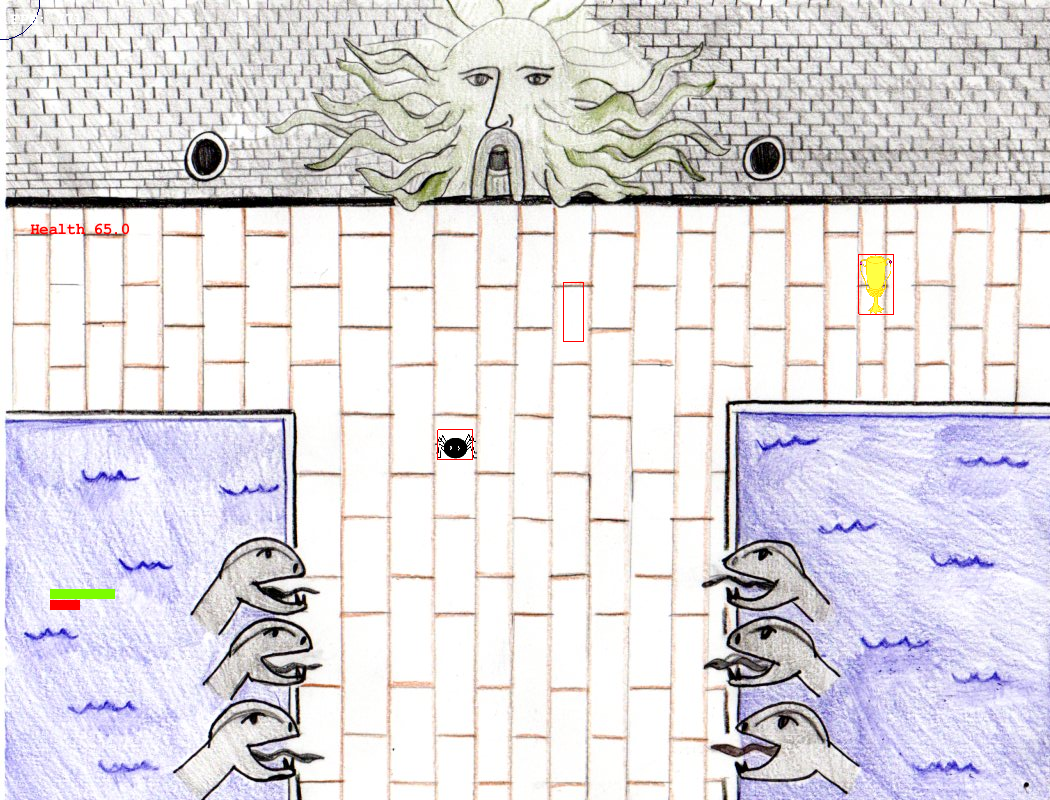
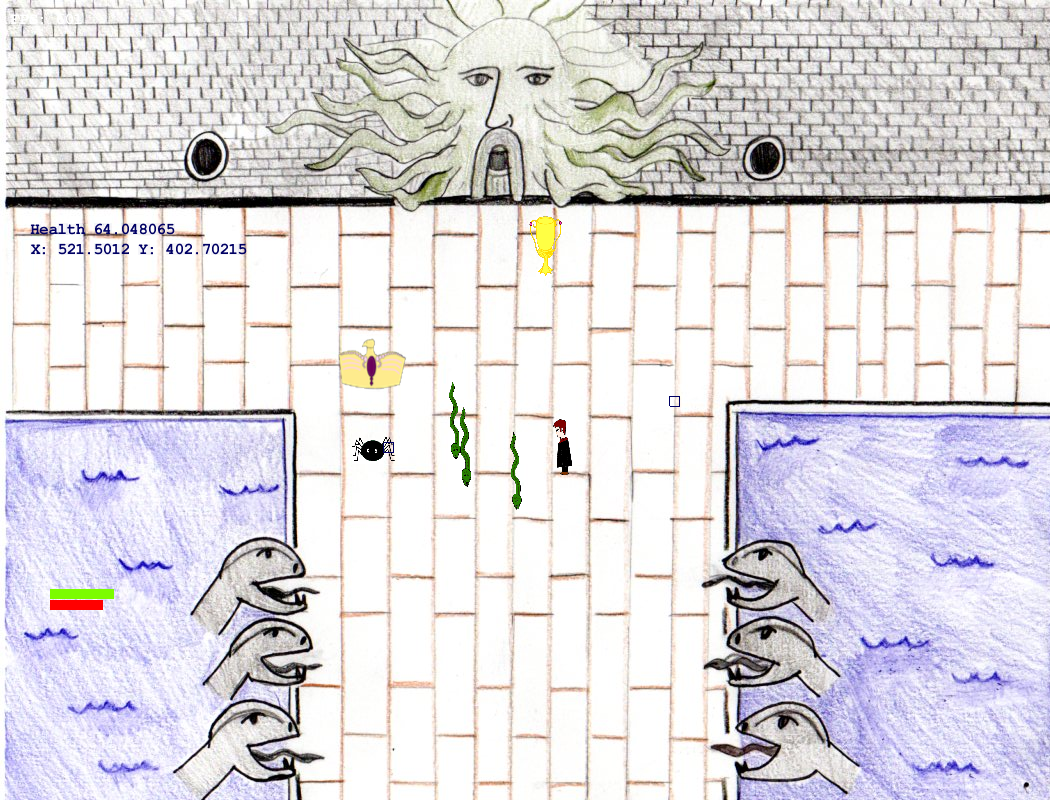
Worked on SpiderMove and added bullet image

diff --git a/src/finalHPGame/Spell/rangepower/bullet/Bullet.java b/src/finalHPGame/Spell/rangepower/bullet/Bullet.java
@@ -1,6 +1,8 @@
 package finalHPGame.Spell.rangepower.bullet;
 
 import org.newdawn.slick.Graphics;
+import org.newdawn.slick.Image;
+import org.newdawn.slick.SlickException;
 import org.newdawn.slick.geom.Rectangle;
 
 import finalHPGame.Location.Location;
@@ -13,16 +15,40 @@ import finalHPGame.Spell.rangepower.bullet.movable.*;
 		private float speed;
 		private int timer;
 		private Rectangle personal;
+		
+		private Image bullet;
+		private float dx;
+		private float dy;
 
 		public Bullet(int direction, Location UserLocation, float speed){
-			if(direction==12) bulletmove = new BulletMoveUp();
-			else if(direction==3) bulletmove = new BulletMoveRight();
-			else if(direction==6) bulletmove = new BulletMoveDown();
-			else if(direction==9) bulletmove = new BulletMoveLeft();
+			dx = 0;
+			dy = 0;
+			if(direction==12){
+				bulletmove = new BulletMoveUp();
+				dx = -12;
+			}
+			else if(direction==3){
+				bulletmove = new BulletMoveRight();
+				dx = -12;
+			}
+			else if(direction==6){
+				bulletmove = new BulletMoveDown();
+				dx=-12;
+			}
+			else if(direction==9){
+				bulletmove = new BulletMoveLeft();
+				dx = -13;
+			}
+			
 			loc = UserLocation.getCopyOfLocation();
 			timer = 0;
 			personal = new Rectangle(loc.getX()+40,loc.getY()+40,10,10);
 			this.speed = speed;
+			try {
+				bullet = new Image("res/Avad_bullet.png");
+			} catch (SlickException e) {
+				e.printStackTrace();
+			}
 		}
 
 		public boolean update(int delta){
@@ -30,7 +56,7 @@ import finalHPGame.Spell.rangepower.bullet.movable.*;
 			if(timer >= 10)
 			{	
 				bulletmove.moveBullet(loc, speed);
-				personal.setX(loc.getX()+40);
+				personal.setX(loc.getX()+45);
 				personal.setY(loc.getY()+40);
 				timer=0;
 			}
@@ -48,7 +74,7 @@ import finalHPGame.Spell.rangepower.bullet.movable.*;
 		}
 		
 		public void draw(Graphics g){
-			g.draw(personal);
+			g.drawImage(bullet,loc.getX()+dx,loc.getY()+dy);
 		}
 		public Rectangle getPersonal(){
 			return personal;

diff --git a/src/finalHPGame/CharList.java b/src/finalHPGame/CharList.java
@@ -8,6 +8,9 @@ import finalHPGame.Characters.*;
 import finalHPGame.Characters.Character;
 import finalHPGame.Data.characters.*;
 import finalHPGame.Data.horcrux.*;
+import finalHPGame.Movable.SuperEnemyMove;
+import finalHPGame.Spell.Spell;
+import finalHPGame.Spell.nonrange.CirclePower;
 
 /**Contains the Characters in the game*/
 public class CharList {
@@ -28,8 +31,10 @@ public class CharList {
 			  in this level it is Harry*/
 
 			characters.add(new Magician(new HarryData(300,140,level),this));
-			characters.add(new Enemy(new SpiderData(300,400,1,this)));
-			horcruxes.add(new Enemy(new CupData(200,200,1)));
+			characters.add(new Enemy(new SpiderData(300,400,level,this)));
+			horcruxes.add(new Enemy(new CupData(200,200,level)));
+			horcruxes.add(new Enemy(new DiademData(299,303,level)));
+			
 
 			for(int x = 1; x<10; x++){
 				// to make sure the objects don't 
@@ -42,6 +47,8 @@ public class CharList {
 		else if(level==2){
 			characters.add(new Magician(new RonData(140,300,level), this));
 			characters.add(new Enemy(new DementorData(300,400,level)));
+			characters.add(new Enemy(new DementorData(200,230,level)));
+			characters.add(new Enemy(new DementorData(20,259,level)));
 		}
 		else if(level==3){
 			characters.add(new Magician(new HarryData(140,300,level),this));
@@ -159,13 +166,24 @@ public class CharList {
 			}
 		}
 	}
-	
-	public void drawAllBullet(Graphics g){
+
+	public void drawPowers(Graphics g){
 		getMainCharacter().getRangePower().draw(g);
 		for(int x = 1; x<characters.size();x++){
 			Character e = characters.get(x);
-			if(e instanceof Enemy && ((Enemy) e).hasRangePower()){
-				((Enemy) e).getRangePower().draw(g);
+			if(e instanceof Enemy){
+				Enemy current = (Enemy)e;
+				if(current.hasRangePower()){
+					current.getRangePower().draw(g);
+				}
+				
+				if(current.hasInvisiblePower()){
+
+				}
+				
+				if(current.hasCirlePower()){
+					current.getCirclePower().drawPowerCircle(g);
+				}
 			}
 		}
 	}

diff --git a/src/finalHPGame/Movable/SuperEnemyMove.java b/src/finalHPGame/Movable/SuperEnemyMove.java
@@ -2,6 +2,7 @@ package finalHPGame.Movable;
 
 import finalHPGame.CharList;
 import finalHPGame.Characters.Enemy;
+import finalHPGame.Characters.Magician;
 
 public class SuperEnemyMove implements Movable {
 
@@ -10,9 +11,17 @@ public class SuperEnemyMove implements Movable {
 	 * 	-Circle Power - when the playable is too close
 	 *	-InvisiblePower - random time
 	 *	-RangePower - when and if x and y are the same as the target, or if the target is near a certain range
+	 *	-Slow Movement towards the player
+	 *	-Health Bar
 	 */
 	public void moveCharacter(CharList list, Enemy self, int delta) {
-	
+		Magician main = list.getMainCharacter();
+		if(self.getCirclePower().getPossibleCircle(self).intersects(main.getPersonalSpace())){
+			this.useCirclePower(self, delta);
+		}
+		else{
+			setCirclePowerOff(self);
+		}
 	}
 	
 	private void useCirclePower(Enemy self, int delta){
@@ -23,6 +32,9 @@ public class SuperEnemyMove implements Movable {
 		self.getCirclePower().updateCircle(delta, self);
 	}
 	private void setCirclePowerOff(Enemy self){
+		if(!self.hasCirlePower()){
+			return;
+		}
 		self.getCirclePower().setPowerOff();
 	}
 	
@@ -35,5 +47,13 @@ public class SuperEnemyMove implements Movable {
 	}
 	private void setInvisibleOff(Enemy self){
 		self.getCirclePower().setPowerOff();
+	}
+	
+	private void addBullet(CharList list, Enemy self){
+		if(!self.hasRangePower()){
+			return;
+		}
+		int direction = self.getLocation().directionOf(list.getMainCharacter().getLocation());
+		self.getRangePower().addBullet(direction);
 	}
 }

diff --git a/src/finalHPGame/Spell/nonrange/CirclePower.java b/src/finalHPGame/Spell/nonrange/CirclePower.java
@@ -4,19 +4,28 @@ import org.newdawn.slick.Graphics;
 import org.newdawn.slick.geom.Circle;
 import org.newdawn.slick.geom.Shape;
 import finalHPGame.Characters.Character;
+import finalHPGame.Characters.Enemy;
 
 public class CirclePower extends NonRange {
 	
 	private Circle power;
 	private int powerRadius;
+	private final int radiusMax;
 	private int timer;
 	
-	public CirclePower(float x, float y){
+	public CirclePower(){
 		super();
 		powerRadius = 40;
 		power = new Circle(0,0,0);
 		timer = 0;
-		
+		radiusMax = 40;
+	}
+	public CirclePower(int radius){
+		super();
+		radiusMax = radius;
+		powerRadius = radius;
+		power = new Circle(0,0,0);
+		timer = 0;
 	}
 	public Shape getPowerCircle(){
 		return power;
@@ -48,7 +57,7 @@ public class CirclePower extends NonRange {
 
 	}
 	public void reset(){
-		powerRadius = 40;
+		powerRadius = radiusMax;
 		timer = 0;
 		power.setCenterX(0);
 		power.setCenterY(0);
@@ -58,6 +67,14 @@ public class CirclePower extends NonRange {
 	public void setPowerOff(){
 		this.isPowerOn=false;
 		reset();
+	}
+	
+	public Shape getPossibleCircle(Enemy self){
+		Circle circle = new Circle(0, 0, 0);
+		circle.setCenterX(self.getPositionX()+50);
+		circle.setCenterY(self.getPositionY()+40);
+		circle.setRadius(radiusMax);
+		return circle;
 	}
 	
 }

diff --git a/src/finalHPGame/States/Play.java b/src/finalHPGame/States/Play.java
@@ -56,11 +56,11 @@ public class Play extends BasicGameState {
 		list.getMainCharacter().getMagicBar().drawBar(g);
 		list.getMainCharacter().getHealthBar().drawBar(g);
 		list.getMainCharacter().getCirclePower().drawPowerCircle(g);
-		list.drawShapes(g);
+		//list.drawShapes(g);
 		g.drawString("Health "+list.getMainCharacter().getHealthBar().getHealthBarX(), 30, 220);
 		g.drawString(list.getMainCharacter().getLocation().toString(), 30, 240);
 		worldMap.render(gc, sbg, g);
-		list.drawAllBullet(g);
+		list.drawPowers(g);
 	}
 
 

diff --git a/src/finalHPGame/Characters/Magician.java b/src/finalHPGame/Characters/Magician.java
@@ -23,7 +23,7 @@ public class Magician extends Character {
 	public Magician(Data data, CharList list)throws SlickException {
 		super(data);
 		speed = new SpeedPower();
-		circle = new CirclePower(this.getPositionX(), this.getPositionY());
+		circle = new CirclePower();
 		invisible = new InvisiblePower();
 		bar = new MagicBar();
 		hp = new HealthBar();

diff --git a/src/finalHPGame/Location/Location.java b/src/finalHPGame/Location/Location.java
@@ -146,7 +146,7 @@ public class Location {
 	public float getDistance(Location b){
 		double xval = Math.pow((float)x-b.x, 2);
 		double yval = Math.pow((float)y-b.y, 2);
-			return (float) Math.sqrt(xval+yval);
+			return Math.abs((float) Math.sqrt(xval+yval));
 	}
 	
 	/**Returns true if the location is contained in Shape*/

diff --git a/src/finalHPGame/Movable/DementorMove.java b/src/finalHPGame/Movable/DementorMove.java
@@ -13,6 +13,7 @@ public class DementorMove implements Movable {
 	public DementorMove(){
 		timer = 0;
 	}
+	//TODO: Add invisible power
 	/**The Dementor moves directly (no bounds) towards the target.*/
 	public void moveCharacter(CharList list, Enemy self, int delta) {
 		timer+=delta;

diff --git a/src/finalHPGame/Spell/rangepower/RangePower.java b/src/finalHPGame/Spell/rangepower/RangePower.java
@@ -20,8 +20,6 @@ public class RangePower implements Spell {
 	private int startingIndex;
 	private int finishingIndex;
 
-
-
 	public RangePower(CharList list, Location userLocation, float speed, boolean playable)
 	{
 		bullet = new ArrayList<Bullet>();

diff --git a/src/finalHPGame/Map/MapLevel3.java b/src/finalHPGame/Map/MapLevel3.java
@@ -13,7 +13,6 @@ public class MapLevel3 implements Map {
 		worldMap = new Image("res/HarryPotterHouse.jpg");
 	}
 
-	//TODO:Add flames if needed
 	public boolean isinHarm(Shape s) {
 		return false;
 	}
